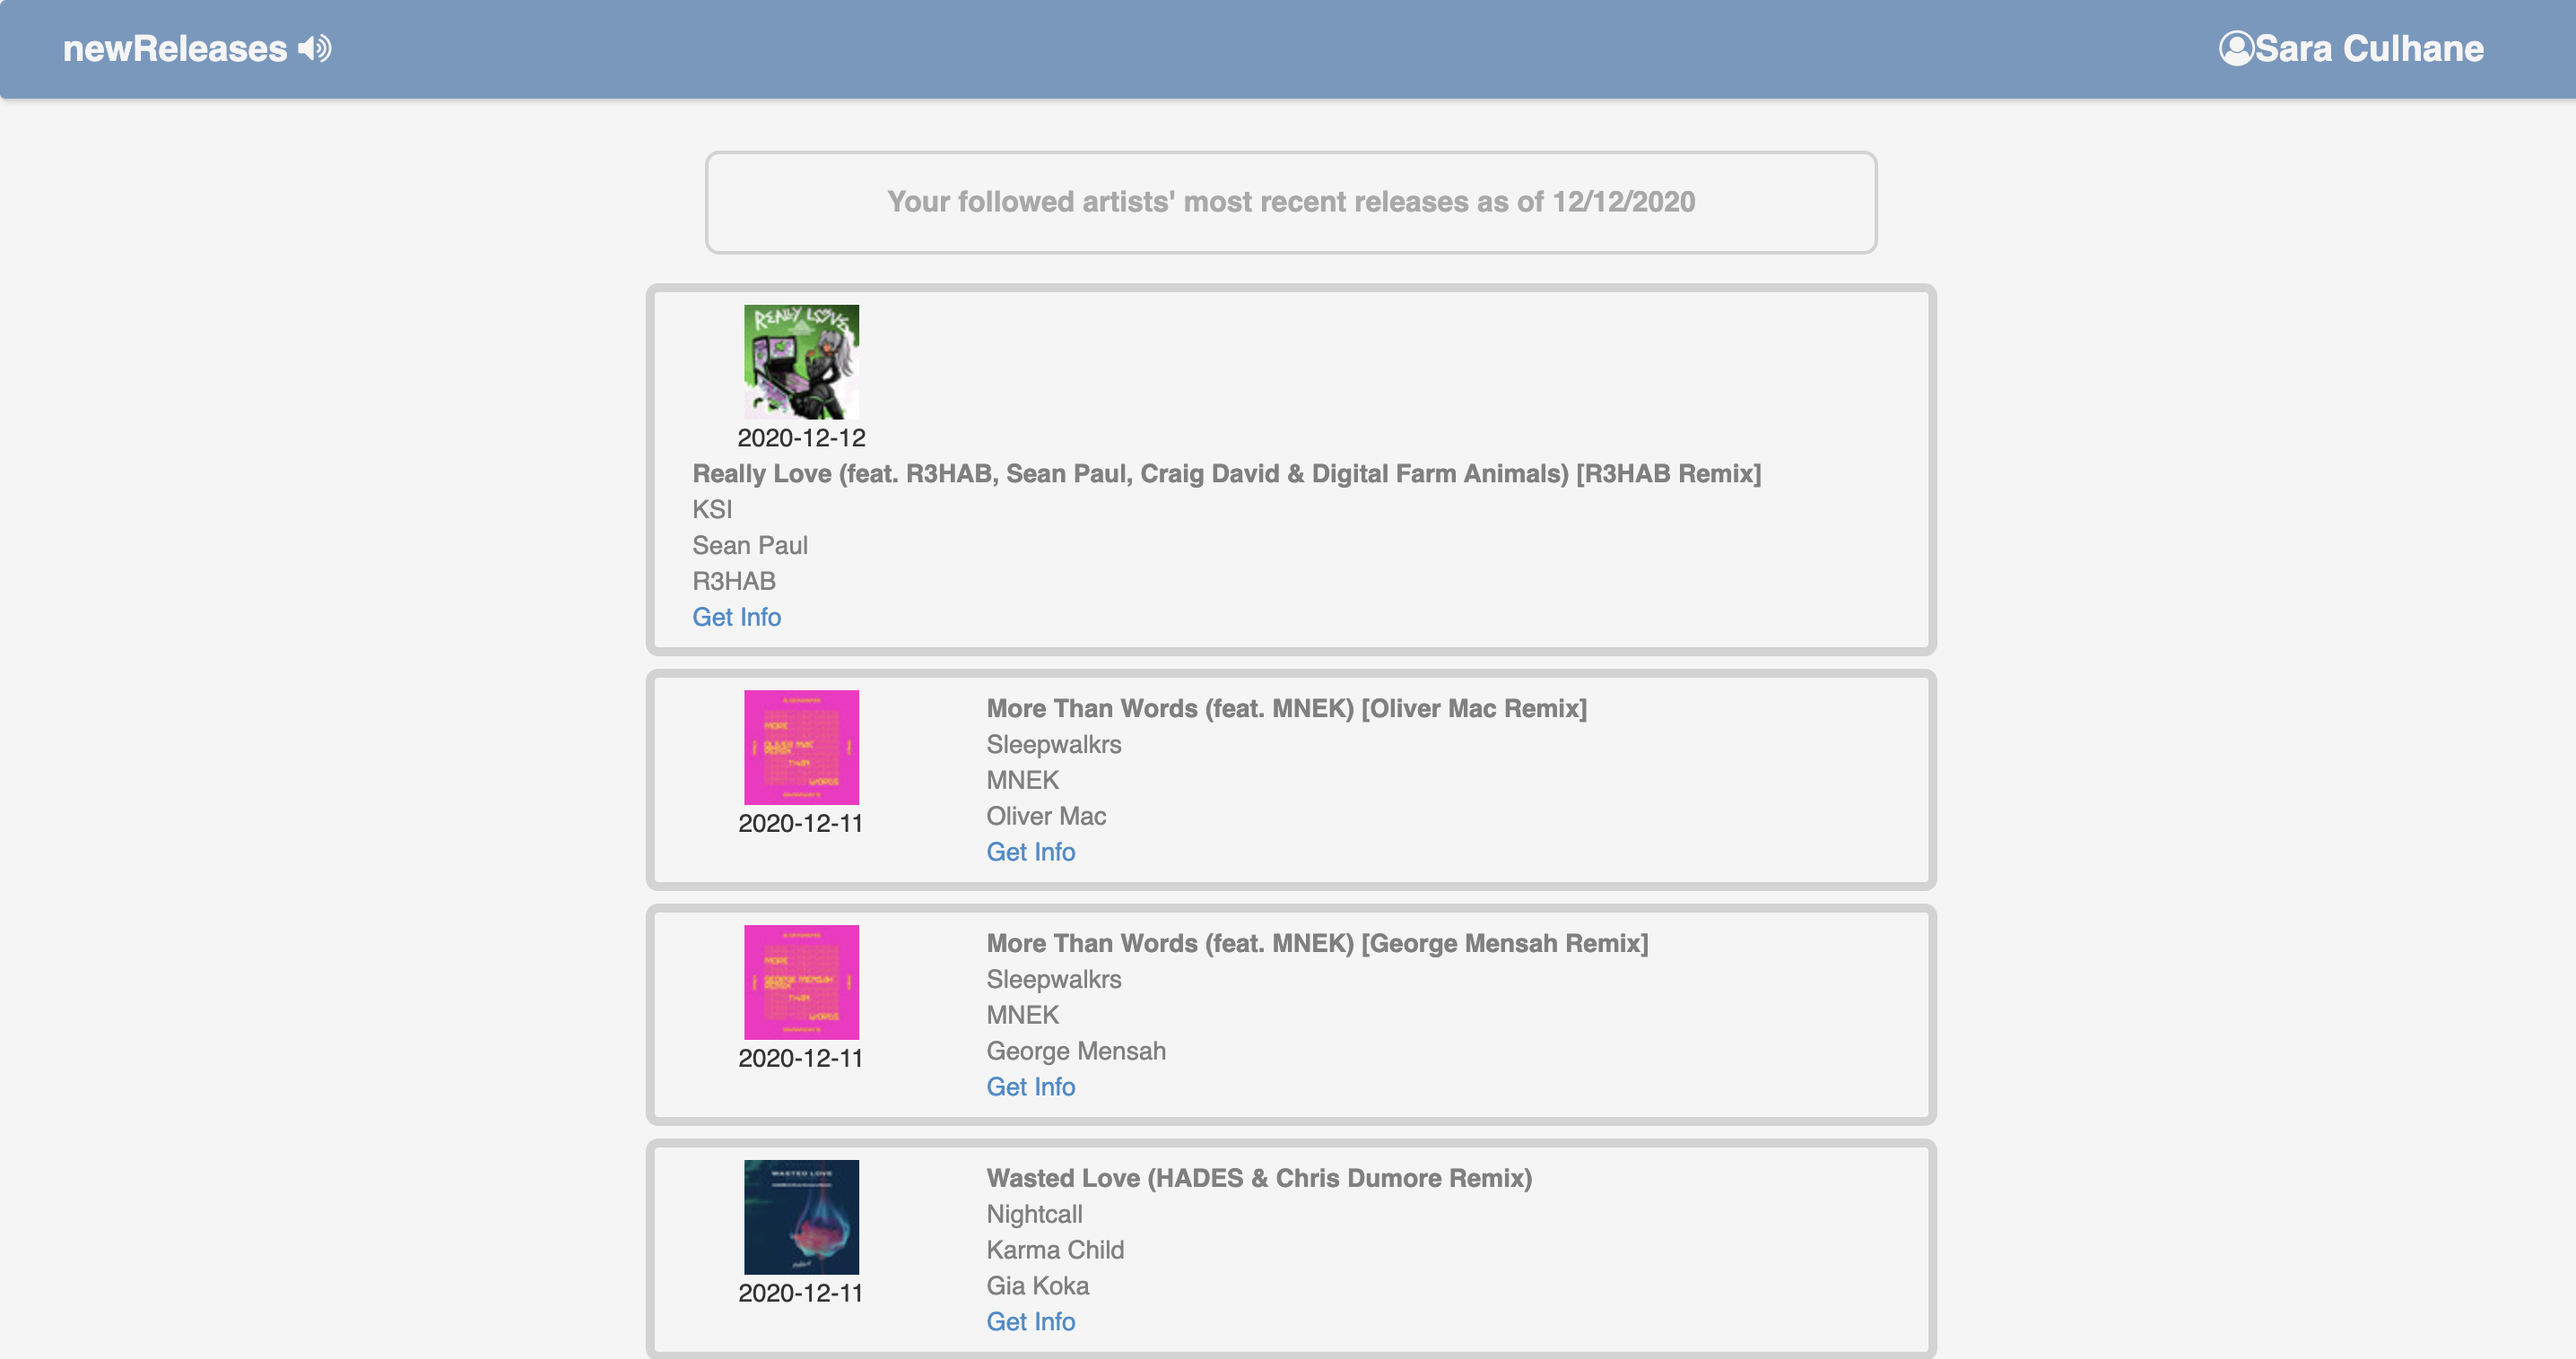
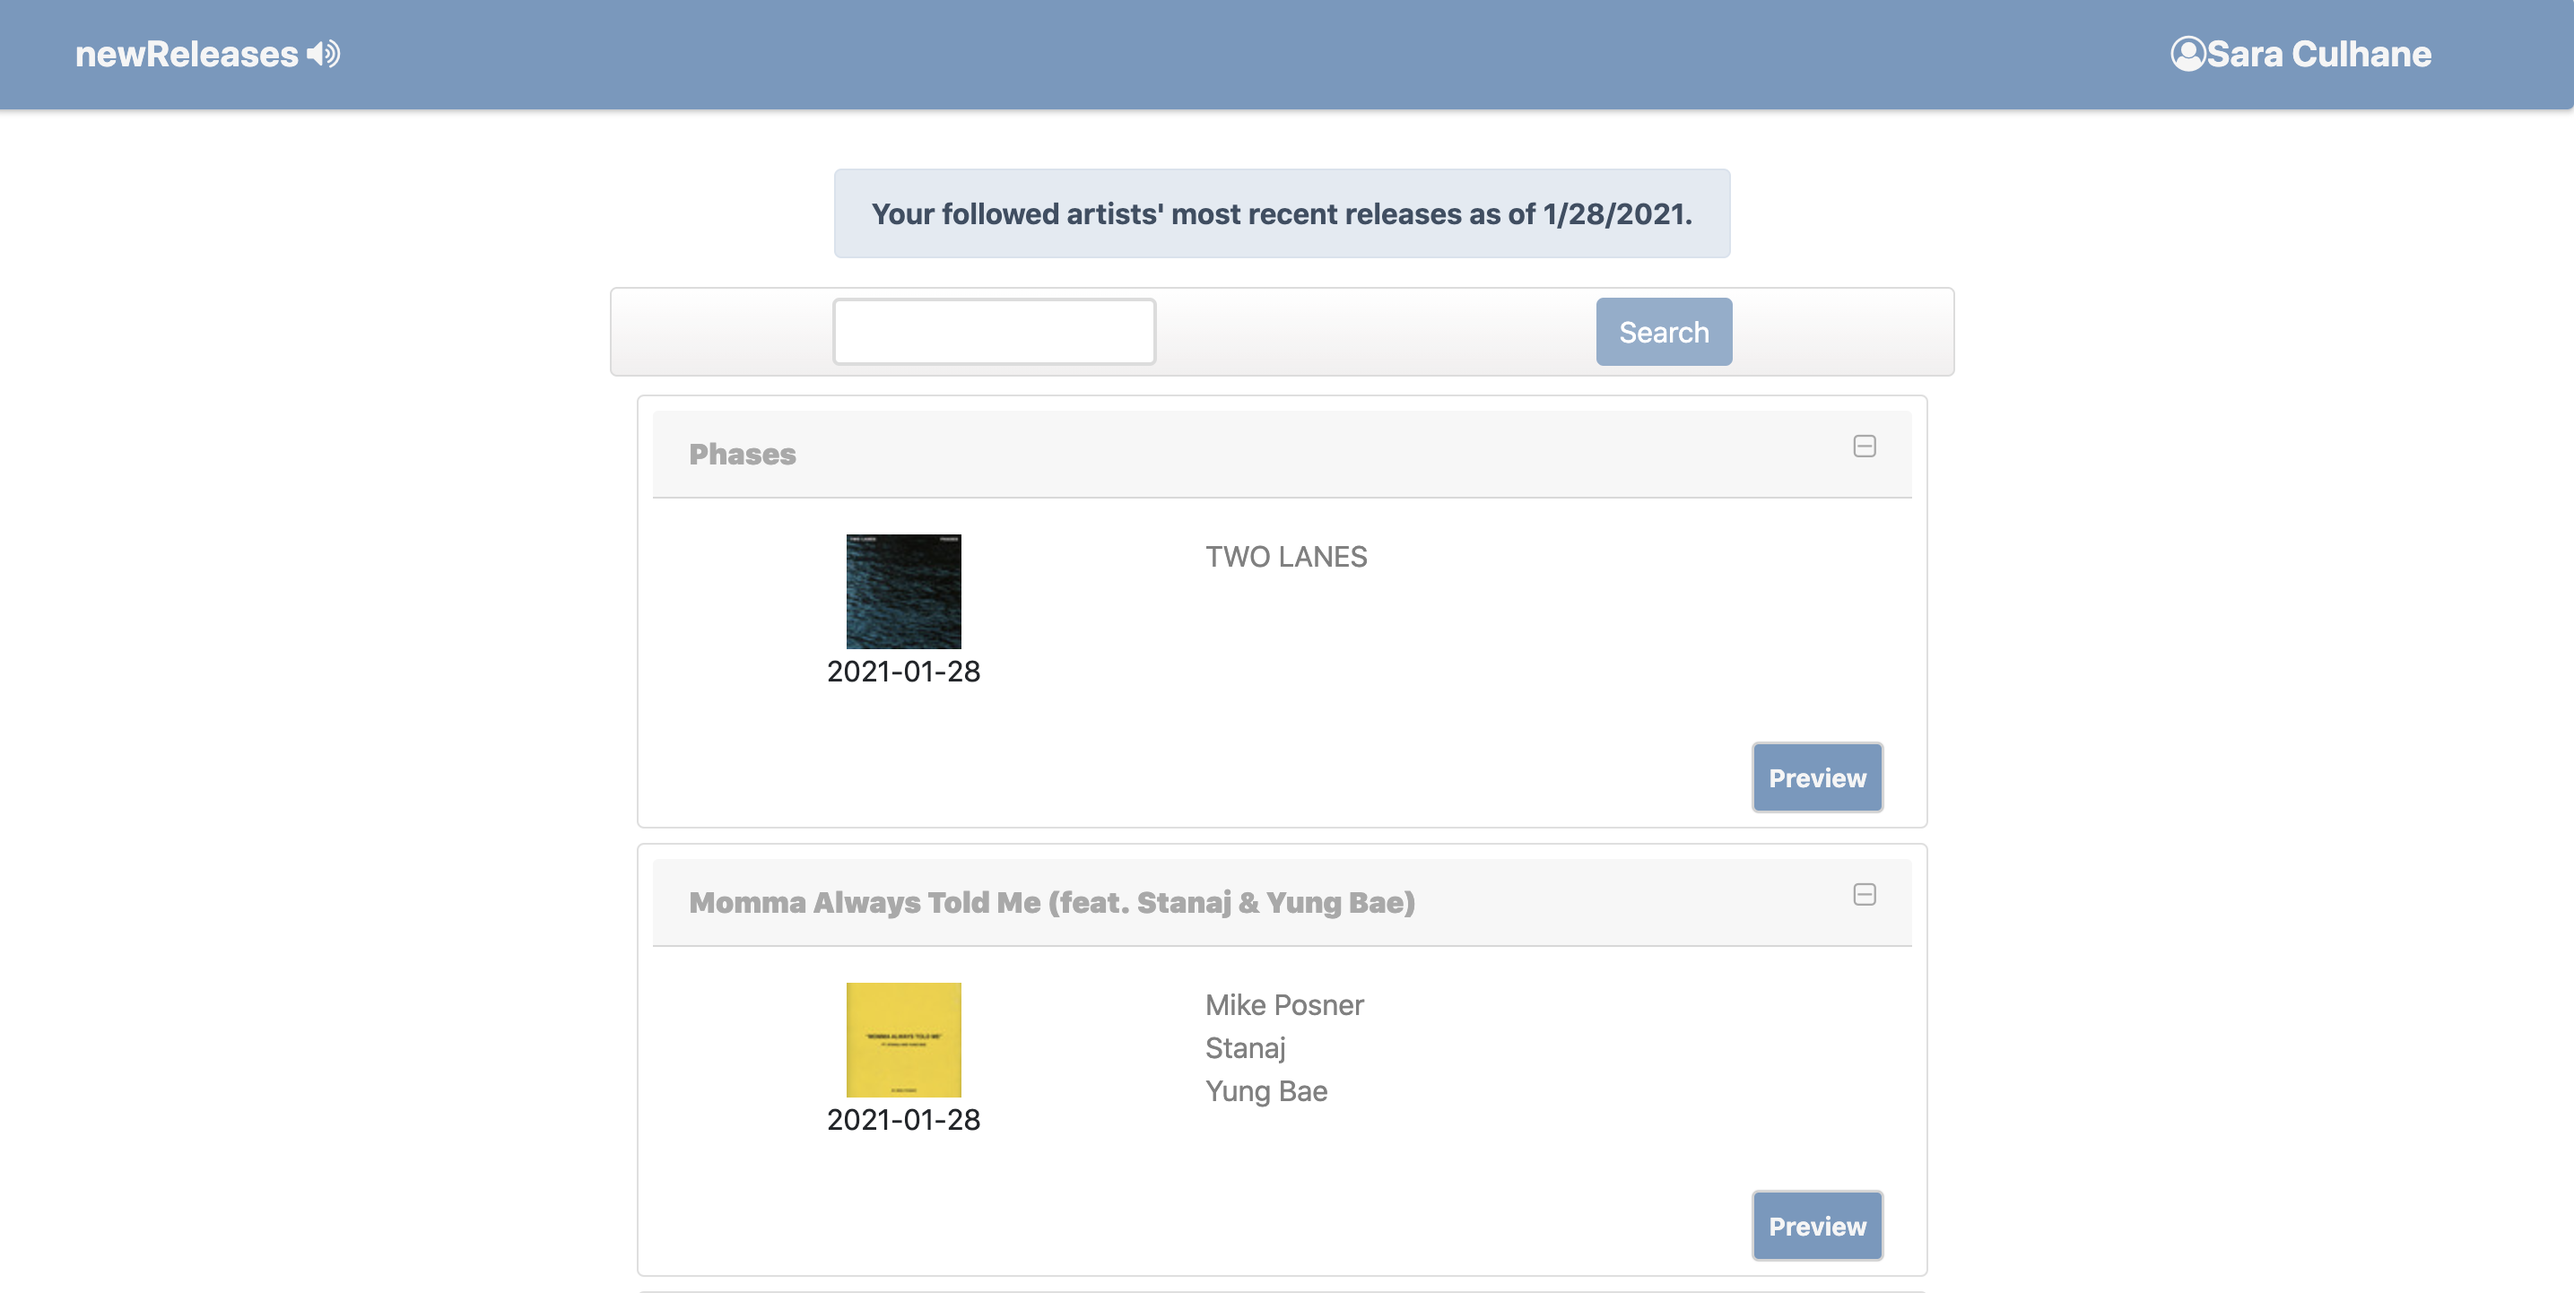
updated readme with new screenshots

Changed region(s): [[0.2481, 0.1248, 0.7753, 0.9986], [0.0, 0.0312, 1.0, 0.0936], [0.4652, 0.4057, 0.5272, 0.4369]]

diff --git a/README.md b/README.md
@@ -65,6 +65,10 @@ The user profile is in the works but will only be fully functional once features
 
 ![ScreenShot](/releases.png)
 
+### Search/Toggle/Player Example 
+
+![ScreenShot](/search.png)
+
 
 
 ## How to Run
